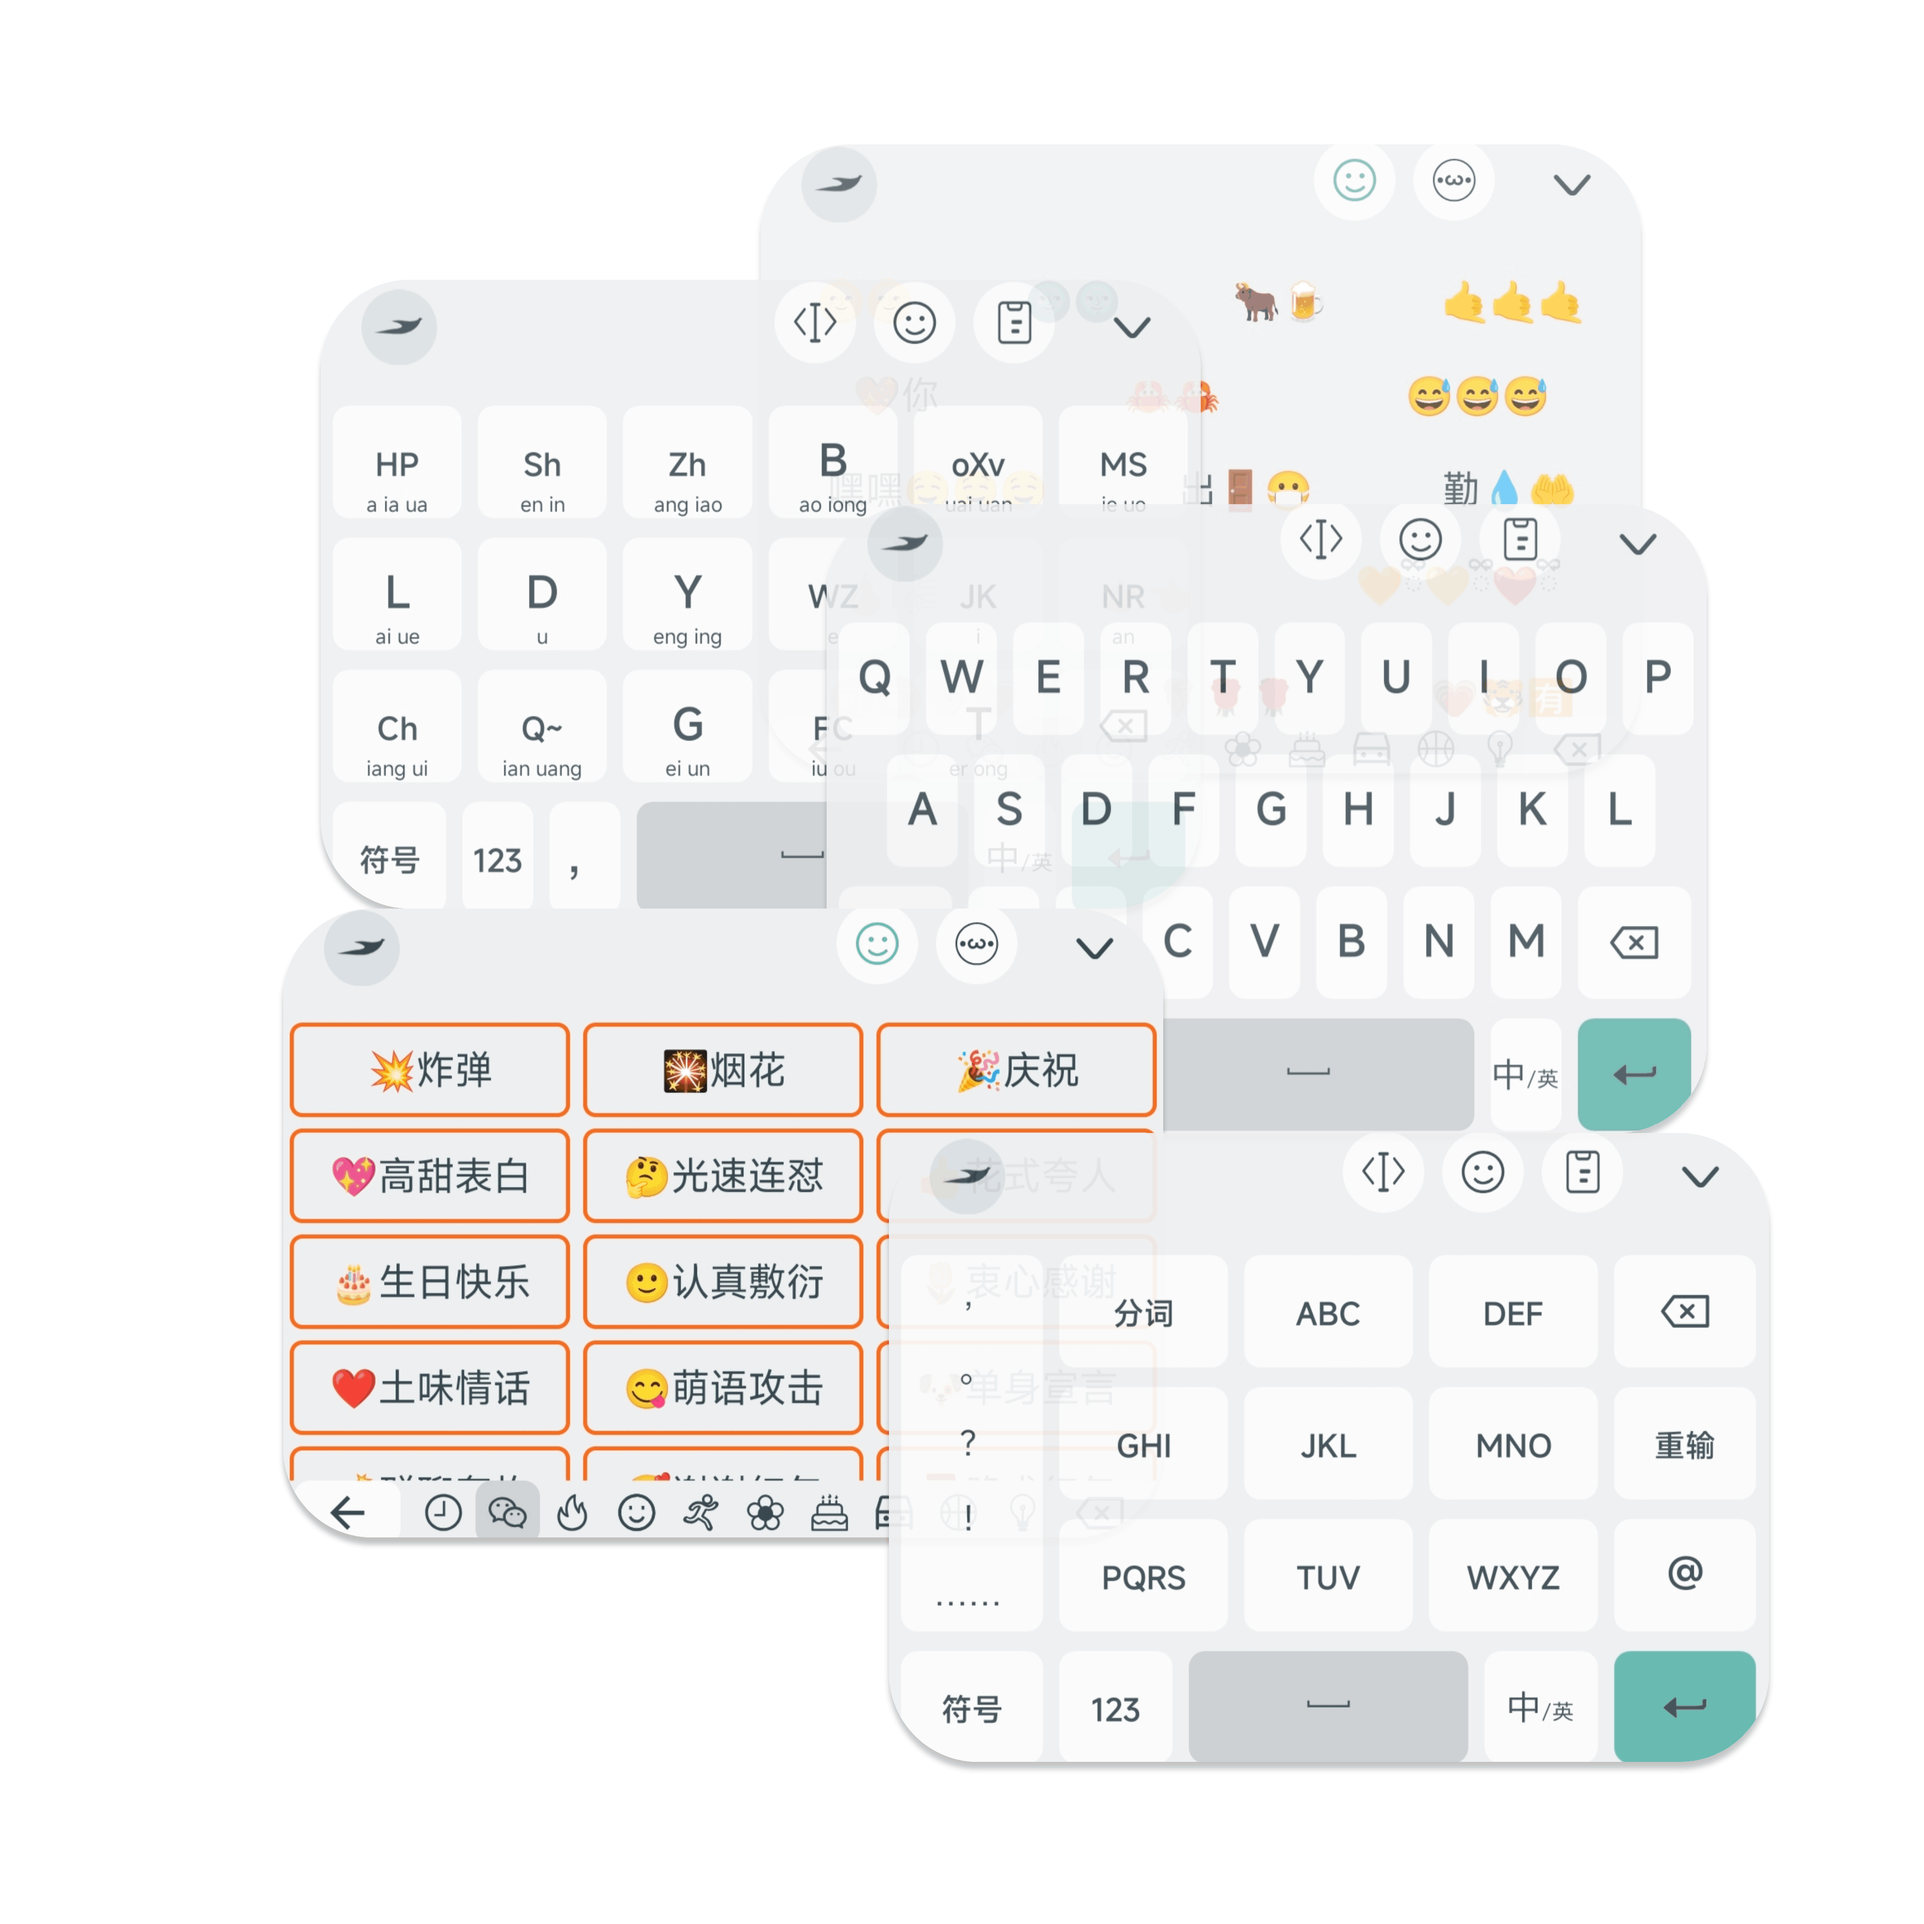
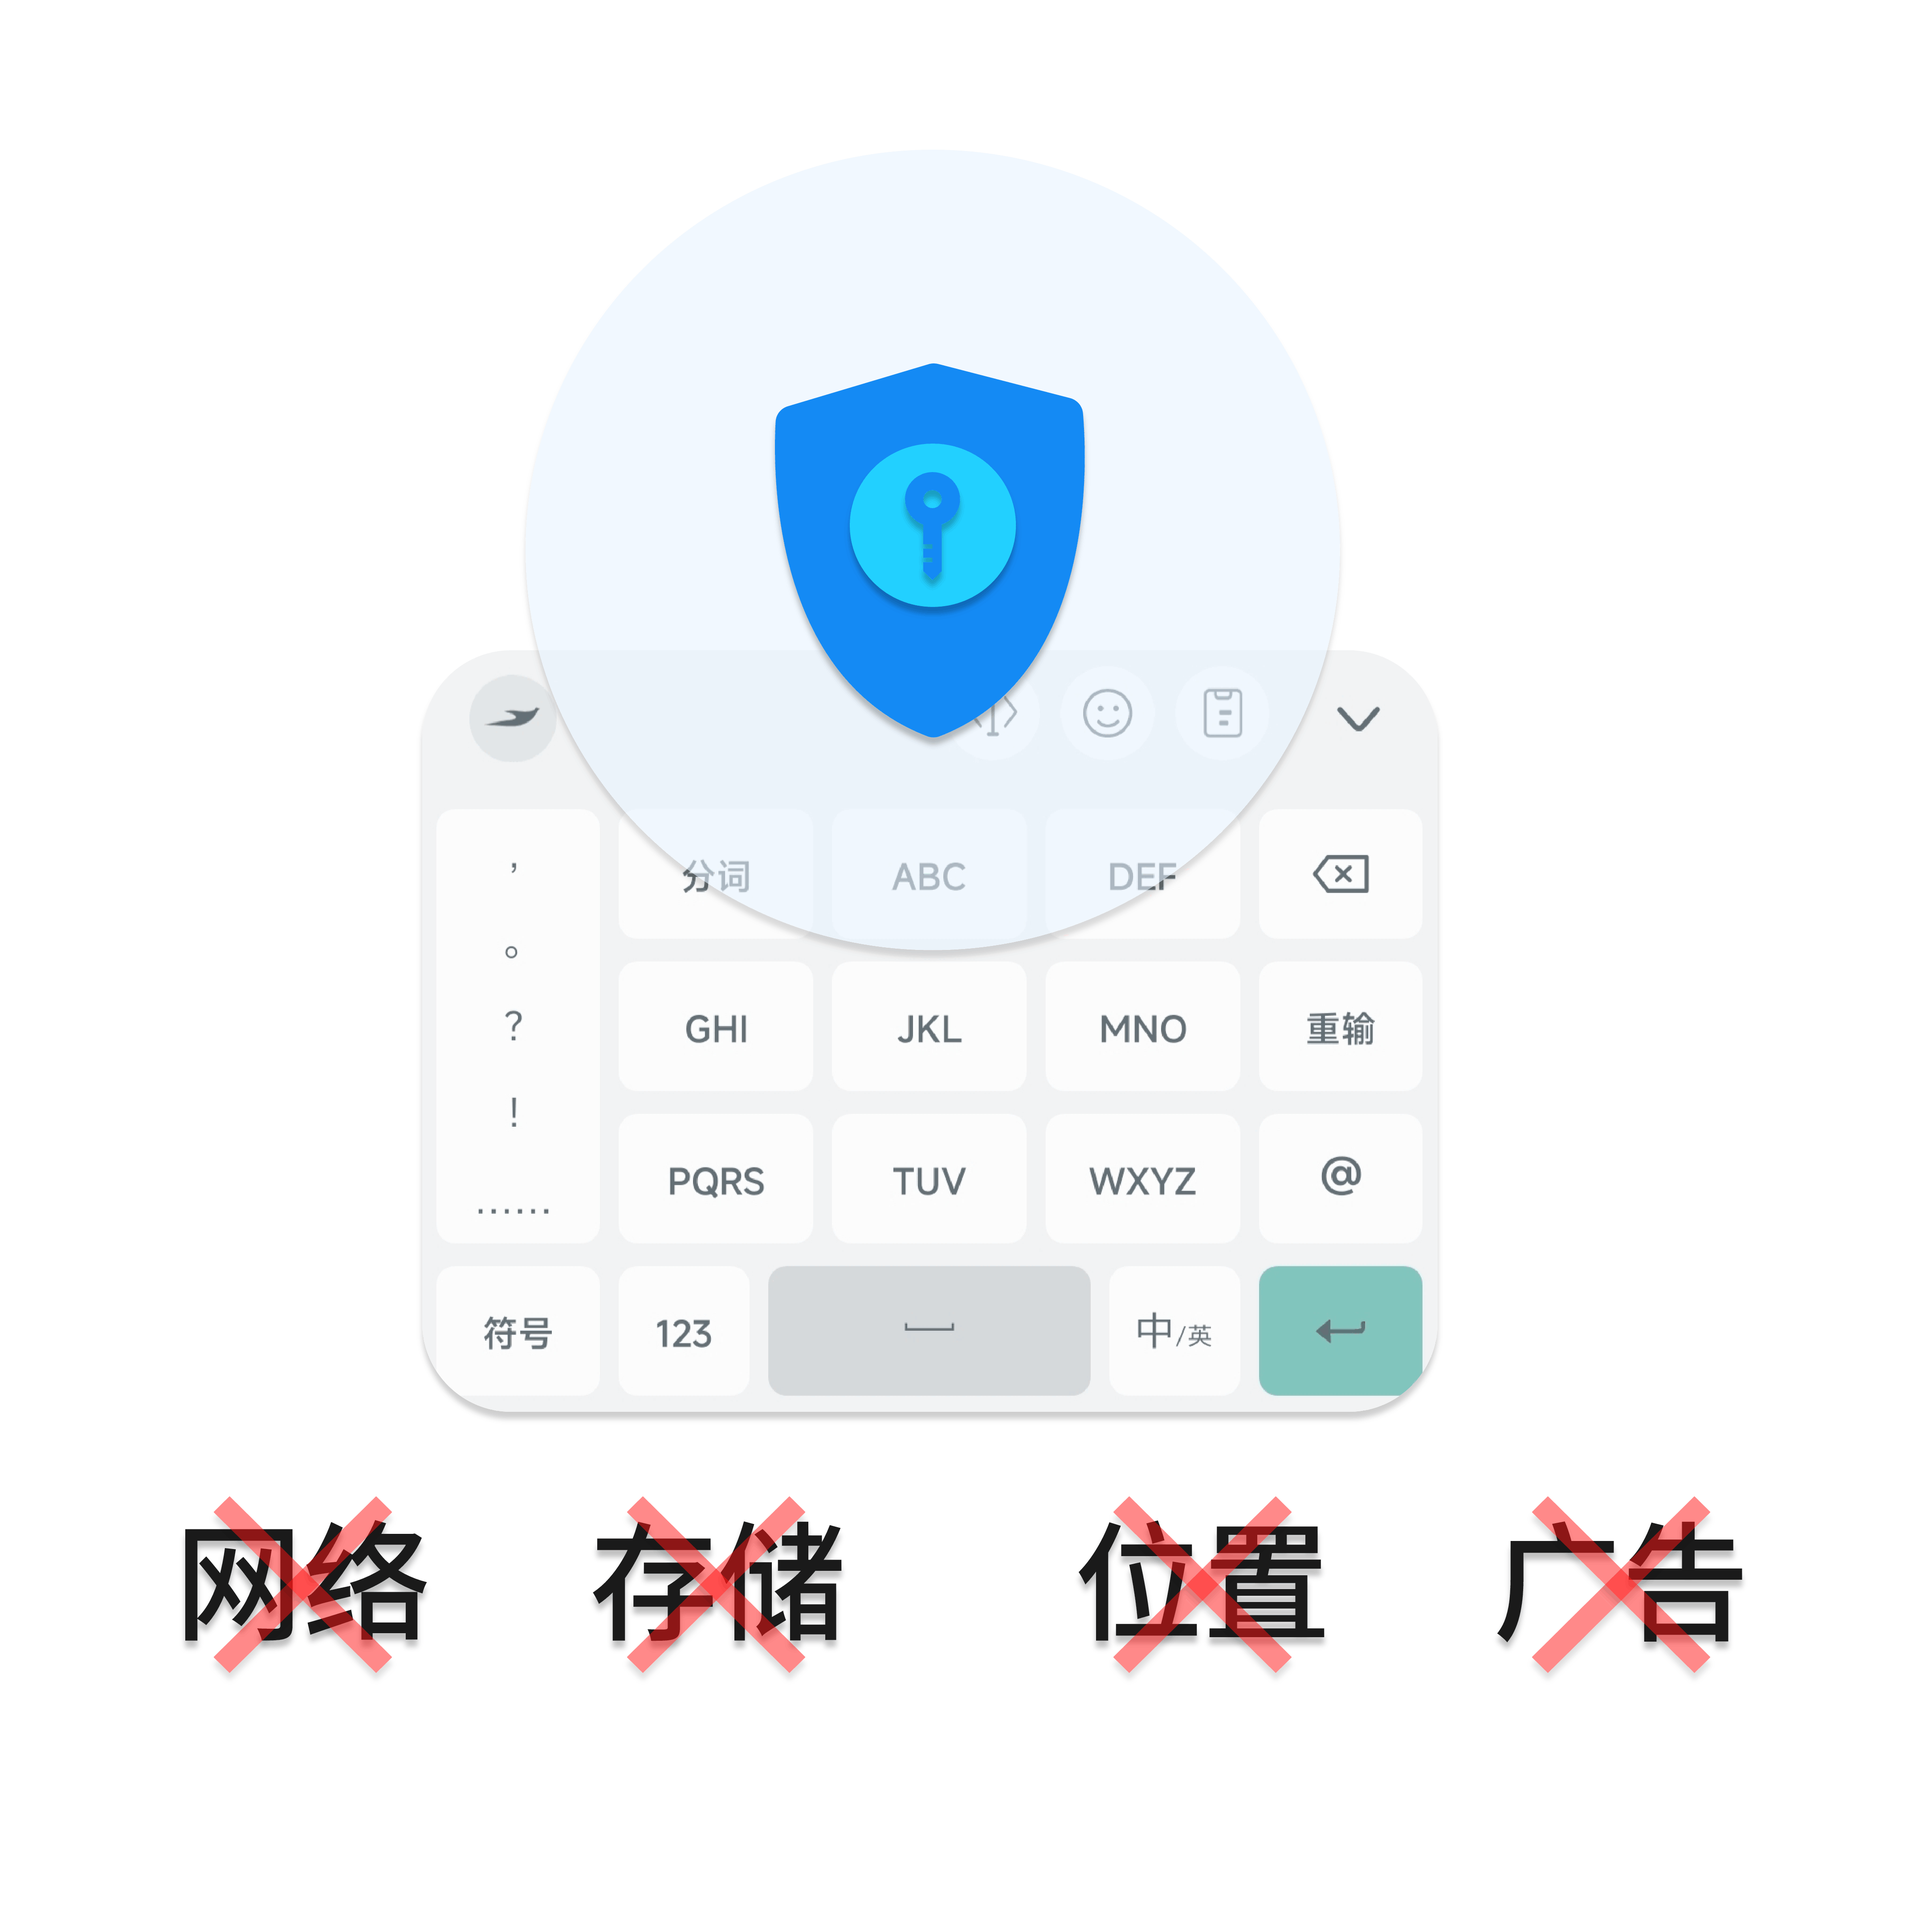
fix: 优化特性描述

diff --git a/docs/index.md b/docs/index.md
@@ -19,36 +19,27 @@ hero:
 features:
   - icon: 🪶
     title: 纯净轻快
-    details: 拒绝广告，只做输入本身。
+    details: 九键、全拼、双拼，覆盖不同习惯。
   - icon: 🔒
     title: 隐私安全
     details: 完全离线，不采集、不上传数据。
-  - icon: ⌨
-    title: 多方案支持
-    details: 九键、全拼、双拼，覆盖不同习惯。
   - icon: 🎨
-    title: 个性化键盘
+    title: 个性配置
     details: 悬浮、单手、数字行等键盘模式。
+  - icon: 🤝
+    title: 开源共建
+    details: 代码开源，随时审查、反馈及交流。
   - icon:  
+      src: /1.png
+      style: "width: 400px"
+  - icon:
       src: /2.png
       style: "width: 400px"
-    # title: 纯净轻快
-    # details: 拒绝广告与臃肿功能，只做输入本身，启动快，占用低。
   - icon:
       src: /3.png
       style: "width: 400px"
-    # title: 纯净轻快
-    # details: 拒绝广告与臃肿功能，只做输入本身，启动快，占用低。
   - icon:
-      src: /1.png
+      src: /4.png
       style: "width: 400px"
-    # title: 纯净轻快
-    # details: 拒绝广告与臃肿功能，只做输入本身，启动快，占用低。
-  - icon:
-      src: /2.png
-      style: "width: 400px"
-  #   height: '48px'
-  #   title: 纯净轻快
-  #   details: 拒绝广告与臃肿功能，只做输入本身，启动快，占用低。
 ---
 
